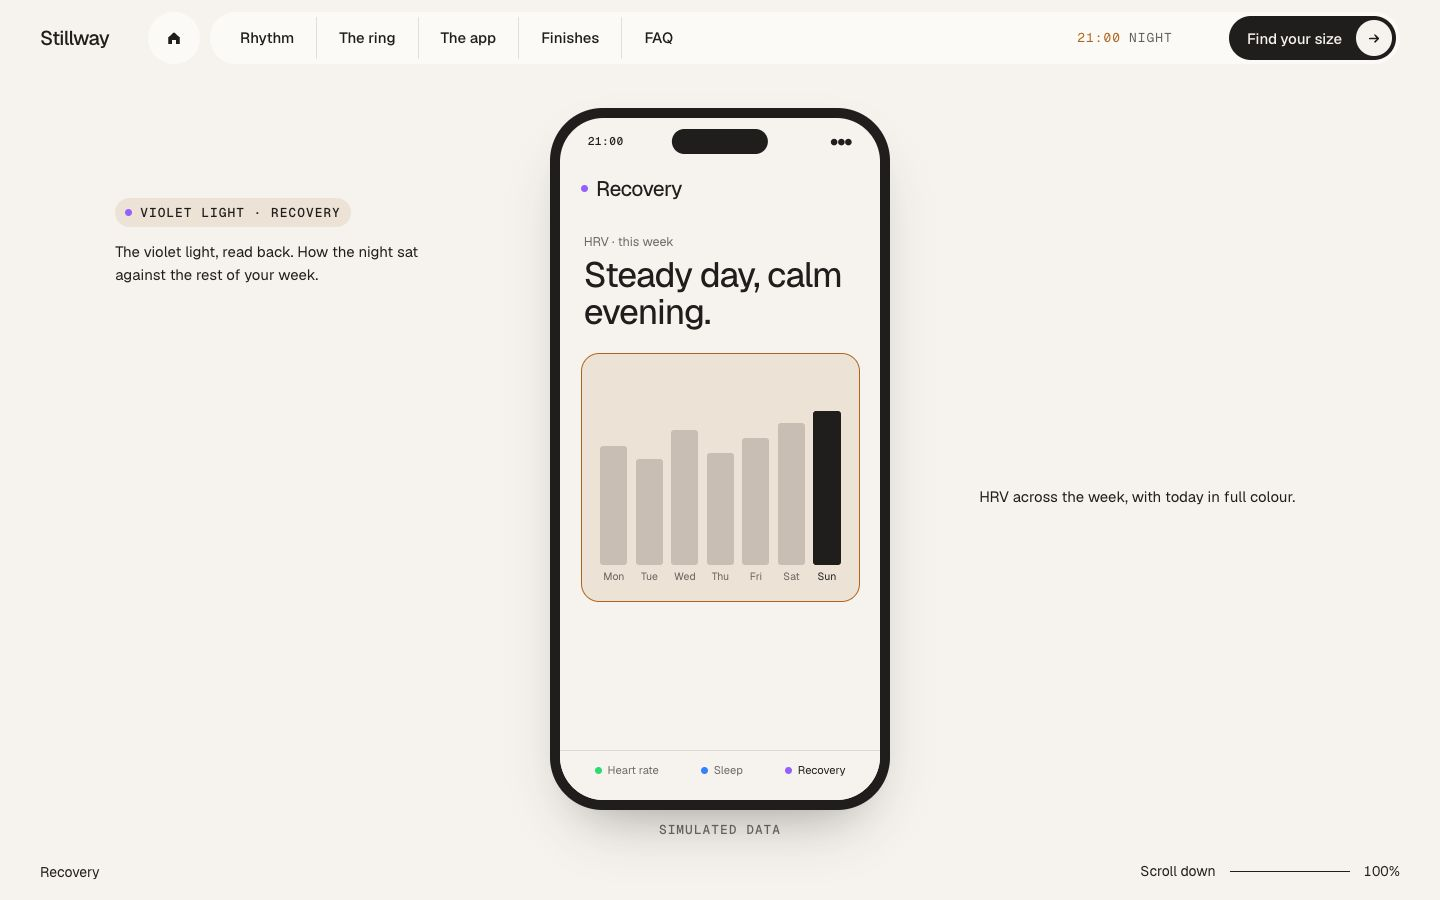
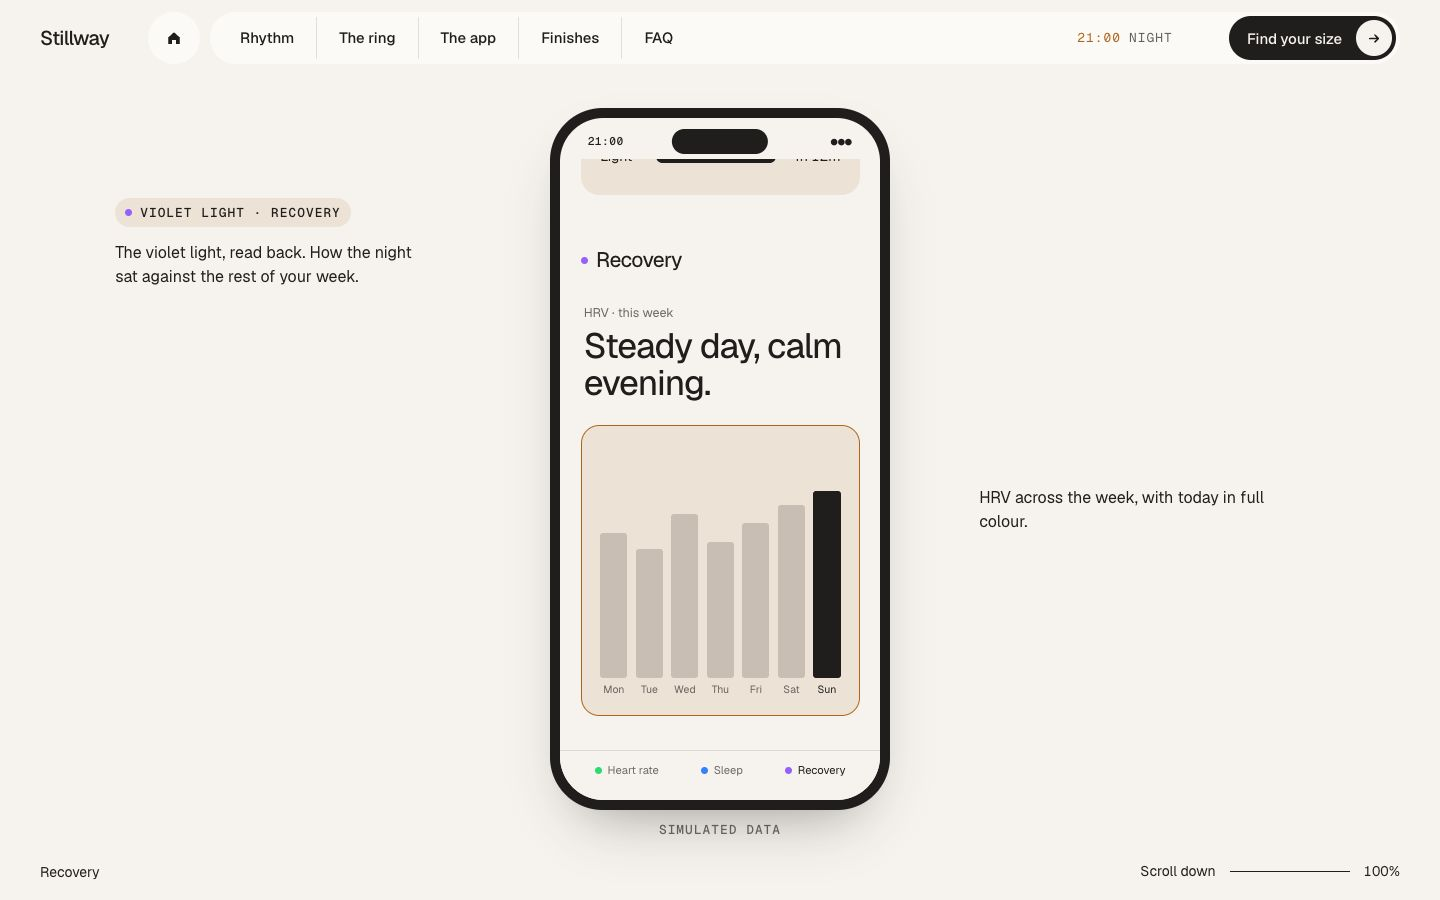
fix(web-v2): D-096 round 1 — readable S09 side texts, next screen peeks in the phone, readable S08 legend
- S09 side texts 16px desktop / 15px phone, full Ink
- S09 screen pages are as tall as their content, so the head of the next
  screen peeks below (Heart rate -> Sleep -> Recovery); the last stop is
  capped and the HRV chart is taller, no new copy or numbers
- S08 legend: inactive items at Stone-on-Night strength, active brightest

diff --git a/web-v2/src/scripts/sections/app.ts b/web-v2/src/scripts/sections/app.ts
@@ -21,6 +21,7 @@ let flabels: HTMLElement[] = [];
 let cards: HTMLElement[] = [];
 let tabs: HTMLElement[] = [];
 let page = 0;
+let stops: number[] = [];
 let lastIdx = -1;
 
 const focusOf = (u: number) => {
@@ -39,6 +40,10 @@ export const app: SectionMotion = {
     flabels = all('[data-p-flabel]');
     cards = all('[data-p-card]');
     tabs = all('[data-p-tab]');
+    // re-measure the page stops after a resize or when the fonts land
+    const reset = () => (page = 0);
+    window.addEventListener('resize', reset);
+    document.fonts?.ready.then(reset);
   },
   update(u, ctx) {
     const H = window.innerHeight;
@@ -55,16 +60,21 @@ export const app: SectionMotion = {
     rights.forEach((l, i) => put(l, { o: near(i) * inn * out, y: (1 - near(i)) * 10 }, ctx));
     flabels.forEach((l, i) => (l.style.opacity = near(i).toFixed(3)));
 
-    // the screen scrolls one page per state; the phone does not move
+    // the screen scrolls one page per state; pages are as tall as their content, so the head of the
+    // next page peeks under the current one (D-096 r1). The last stop is capped so Recovery ends at
+    // the bottom of the screen instead of leaving a tall empty space.
     if (el.scroll) {
-      // one page = the visible screen height (between the status bar and the tab bar)
       const vh = el.scroll.parentElement?.offsetHeight ?? 0;
       if (vh && vh !== page) {
         page = vh;
-        el.scroll.style.setProperty('--pageh', `${vh}px`);
+        const pages = [...el.scroll.children] as HTMLElement[];
+        const max = Math.max(0, el.scroll.scrollHeight - vh);
+        stops = pages.map((p) => Math.min(p.offsetTop, max));
       }
-      if (ctx.reduced) el.scroll.style.transform = `translate3d(0, ${(-Math.round(f) * page).toFixed(1)}px, 0)`;
-      else el.scroll.style.transform = `translate3d(0, ${(-f * page).toFixed(1)}px, 0)`;
+      const fi = ctx.reduced ? Math.round(f) : f;
+      const i0 = Math.min(1, Math.floor(fi));
+      const y = stops.length ? lerp(stops[i0], stops[i0 + 1], fi - i0) : 0;
+      el.scroll.style.transform = `translate3d(0, ${(-y).toFixed(1)}px, 0)`;
     }
     const idx = Math.round(f);
     if (idx !== lastIdx) {

diff --git a/web-v2/src/scripts/sections/features.ts b/web-v2/src/scripts/sections/features.ts
@@ -48,7 +48,7 @@ export const features: SectionMotion = {
     put(el.sub, { o: window4(u, -0.2, 0.1, 0.35, 0.6) }, ctx);
     put(el.legend, { o: seg(u, 0.55, 0.85) * out }, ctx);
     const c = ledcOf(u);
-    legs.forEach((l, i) => l.style.setProperty('--on', (0.4 + 0.6 * clamp01(1 - Math.abs(c - i))).toFixed(3)));
+    legs.forEach((l, i) => l.style.setProperty('--on', (0.68 + 0.32 * clamp01(1 - Math.abs(c - i))).toFixed(3)));
     bodies.forEach((b, i) => put(b, { o: clamp01(1 - Math.abs(c - i) * 1.8) }, ctx));
     put(el.off, { o: seg(u, 1.6, 1.9) }, ctx);
   },
